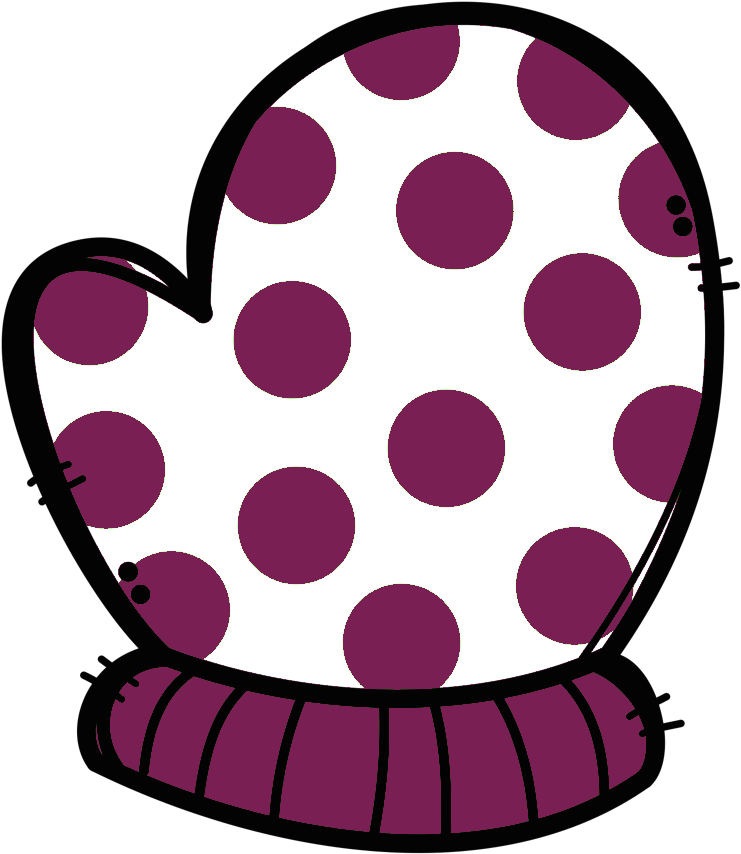
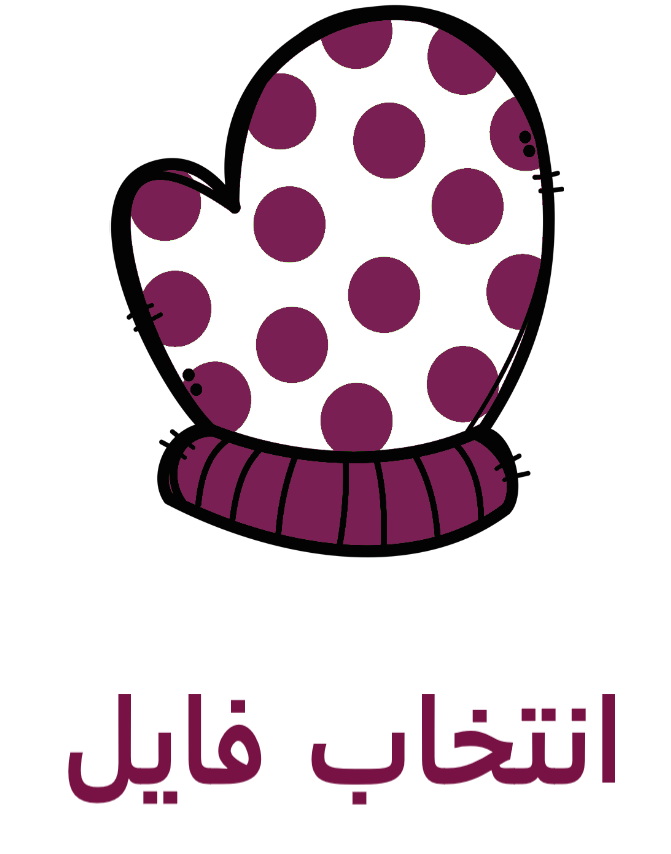
[chore]:refactor

diff --git a/src/components/DashboardTeacherWalletCharts/index.jsx b/src/components/DashboardTeacherWalletCharts/index.jsx
@@ -59,11 +59,13 @@ function DashboardTeacherWalletCharts() {
   for (const i in diagramData) {
     let newOrder = []
     let newName=diagramData[i]['title'];
+    let v= 0;
     for (const property in diagramData[i]['orders']) {
       console.log(property);
-      newOrder.push(diagramData[i]['orders'][property].amount);
+      //newOrder.push(diagramData[i]['orders'][property].amount);
+      v = v+diagramData[i]['orders'][property].amount;
     }
-    myOrder.push(newOrder);
+    myOrder.push(v);
     Names.push(newName);
   }
   console.log(myOrder);
@@ -74,26 +76,28 @@ function DashboardTeacherWalletCharts() {
   const or3 = orderss(diagramData[2]);*/
   const data = {
     labels: [
-      "",
-      "",
-      "",
-      "",
-      "",
-      "",
-      ""
+      Names[0],
+      Names[1],
+      Names[2],
+      Names[3],
+      Names[4],
+      Names[5],
+      Names[6]
     ],
     //backgroundColor: ['rgba(255,0,0,1)'],
     //lineTension: 1,
     datasets: [
       {
-        label:Names[0],
+        label:'کلاسهای من',
         fill: false,
-        borderColor: "rgba(255, 0, 0, 0.3)",
+        //borderColor: "rgba(255, 0, 0, 0.3)",
+        //borderColor: "mediumseagreen",
+        borderColor: "blue",
         borderWidth: 2,
         pointRadius: 2,
-        data: myOrder[0]
+        data: myOrder
       },
-      {
+      /*{
         label:Names[1],
         fill: false,
         borderColor: "mediumseagreen",
@@ -108,7 +112,7 @@ function DashboardTeacherWalletCharts() {
         borderWidth: 2,
         pointRadius: 2,
         data: myOrder[2]
-      }
+      }*/
     ]
   };
 

diff --git a/src/components/StudentDashboardBookMarkedClasses/index.jsx b/src/components/StudentDashboardBookMarkedClasses/index.jsx
@@ -17,6 +17,7 @@ import {useMediaQuery } from '@mui/material';
 import axios from '../../utils/axiosConfig';
 import { baseUrl } from '../../utils/constants';
 import { change_profile_color } from '../../store/actions';
+import noPersonImg from '../../assets/images/noperson.png';
 
 SwiperCore.use([Navigation, Keyboard]);
 const MyCourseSlider = () => {
@@ -67,8 +68,11 @@ const MyCourseSlider = () => {
                   title={item.title}
                   teacherName={item.instructor.last_name}
                   rate={item.rate}
-                  teacherImgSrc={item.instructor.image}
-                  imgSrc={item.image}
+                  teacherImgSrc={(item.instructor.image && baseUrl + item.instructor.image) || noPersonImg}
+                  imgSrc={
+                    (item.image && baseUrl + item.image) ||
+                    'https://www.inklyo.com/wp-content/uploads/How-to-Succeed-in-an-Online-Course.jpg'
+                  }
                 />
               </SwiperSlide>
             ))}

diff --git a/src/components/StudentDashboardAssignments/index.jsx b/src/components/StudentDashboardAssignments/index.jsx
@@ -7,6 +7,7 @@ import Typography from '@mui/material/Typography';
 import ExpandMoreIcon from '@mui/icons-material/ExpandMore';
 import SleepingFox from '../../assets/images/SleepingFox.png';
 import AwakenFox from '../../assets/images/AwakenFox.png';
+import TimeToRest from '../../assets/images/TimeToRest.png';
 //import PlayfulFox from '../../assets/images/PlayfulFox.png';
 //import HappyFox from '../../assets/images/HappyFox.png'
 
@@ -49,7 +50,8 @@ function MyAssignments() {
     <div  className="AcDiv">
       {loading || assignments.length <= 0? (
         <div style={{ padding: '140px', display: 'flex',alignItems:'center',justifyContent:'center' }}>
-          <ReactLoading type="spinningBubbles" color="white" height={100} width={100} />
+          <p className='NoAssign'>تمرین حل نشده نداری</p>
+          <img src={TimeToRest} alt='TimeToRest' style={{width:'60px',marginRight:'10px'}}/>
         </div>
       ) : (
         <div>

diff --git a/src/components/Uploader/index.jsx b/src/components/Uploader/index.jsx
@@ -108,7 +108,7 @@ function App() {
           <form onSubmit={handleSubmit}>
             {/*<DragDrop/>*/}
           <label for="file" onChange={handleOnChange}>
-          <img src={gloves} alt="gloves" style={{width:'50px', margin:'5px'}}/>
+          <img src={gloves} alt="gloves" style={{width:'100px', margin:'5px'}}/>
           </label>
   <input type="file" id="file" name="file" style={{display:'none'}} onChange={handleOnChange}/>
           {/* <img src={gloves} alt="gloves" style={{width:'50px', margin:'5px'}}/>

diff --git a/src/index.jsx b/src/index.jsx
@@ -7,6 +7,8 @@ import './theme/main.scss';
 import { createTheme, ThemeProvider } from '@mui/material/styles';
 import { login, remove_token } from './store/actions';
 import { faIR } from '@mui/material/locale';
+import { defaults } from 'chart.js';
+defaults.font.family ='iranyekan';
 
 const theme = createTheme(
   {

diff --git a/src/components/StudentDashboardAssignments/style.scss b/src/components/StudentDashboardAssignments/style.scss
@@ -123,3 +123,8 @@ div.assignment-question > * > img {
     margin: auto 100px;
   }
 }
+.NoAssign{
+  font-weight: 700;
+  font-size: large;
+  color: color(student-primary);
+}
